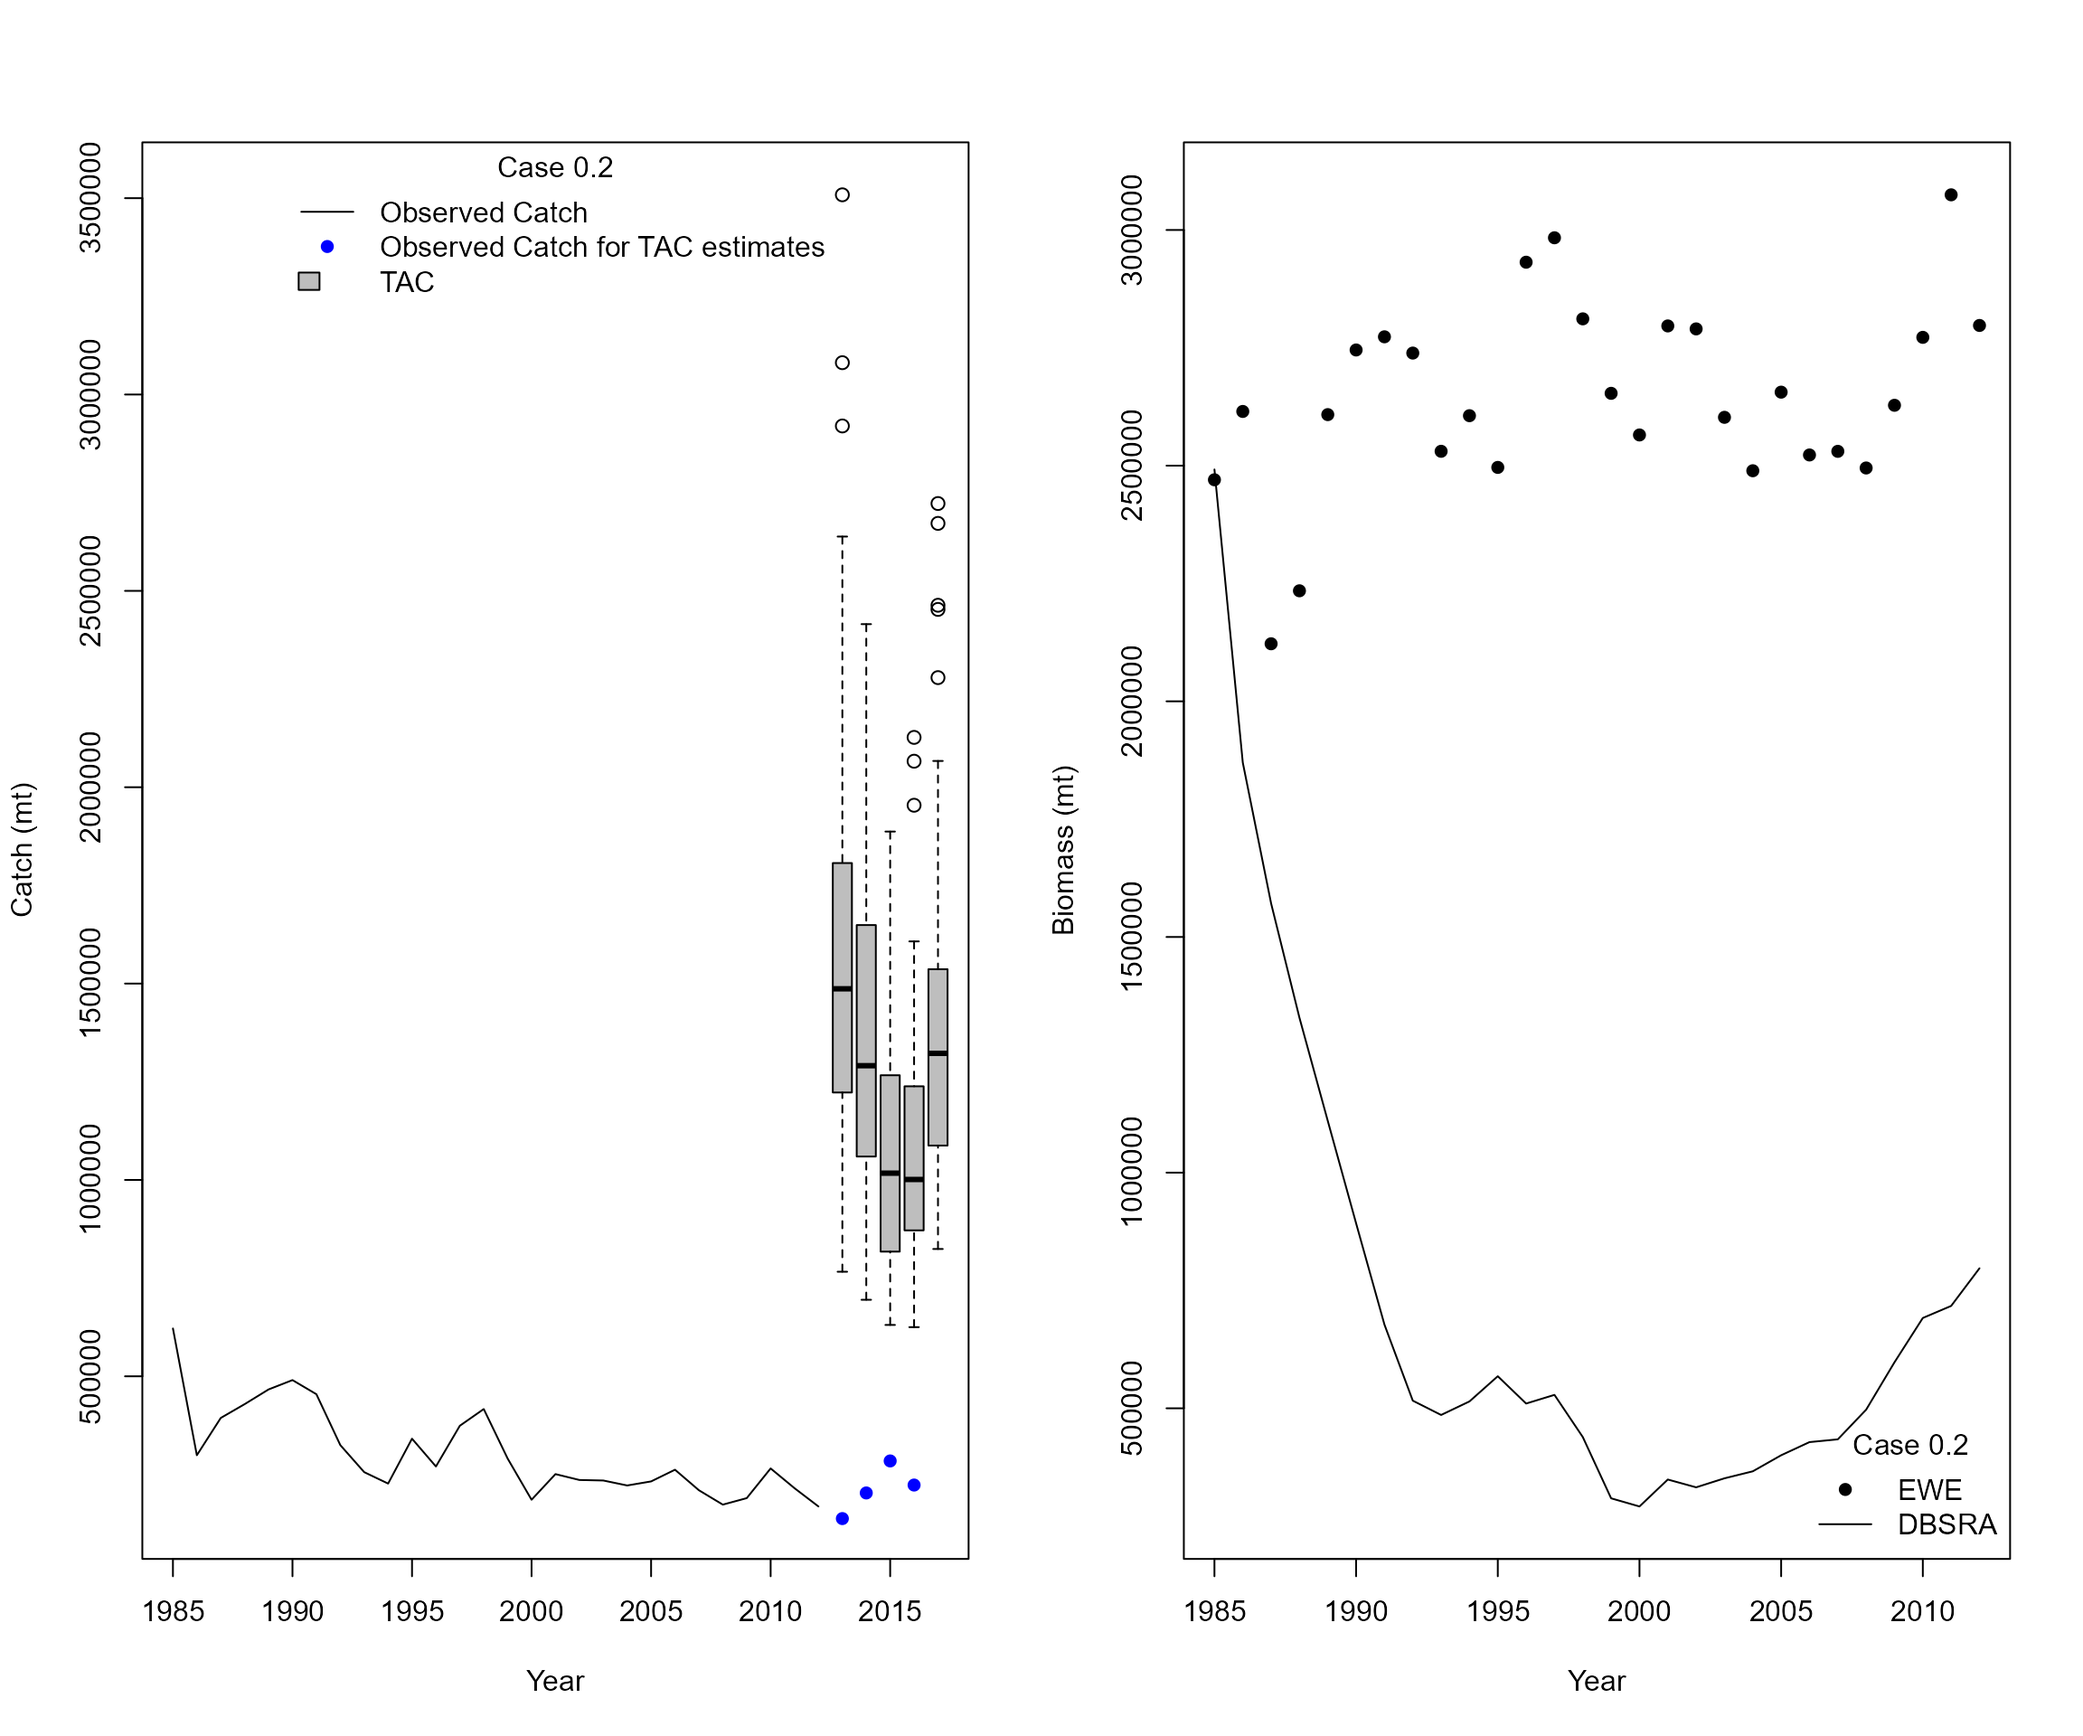
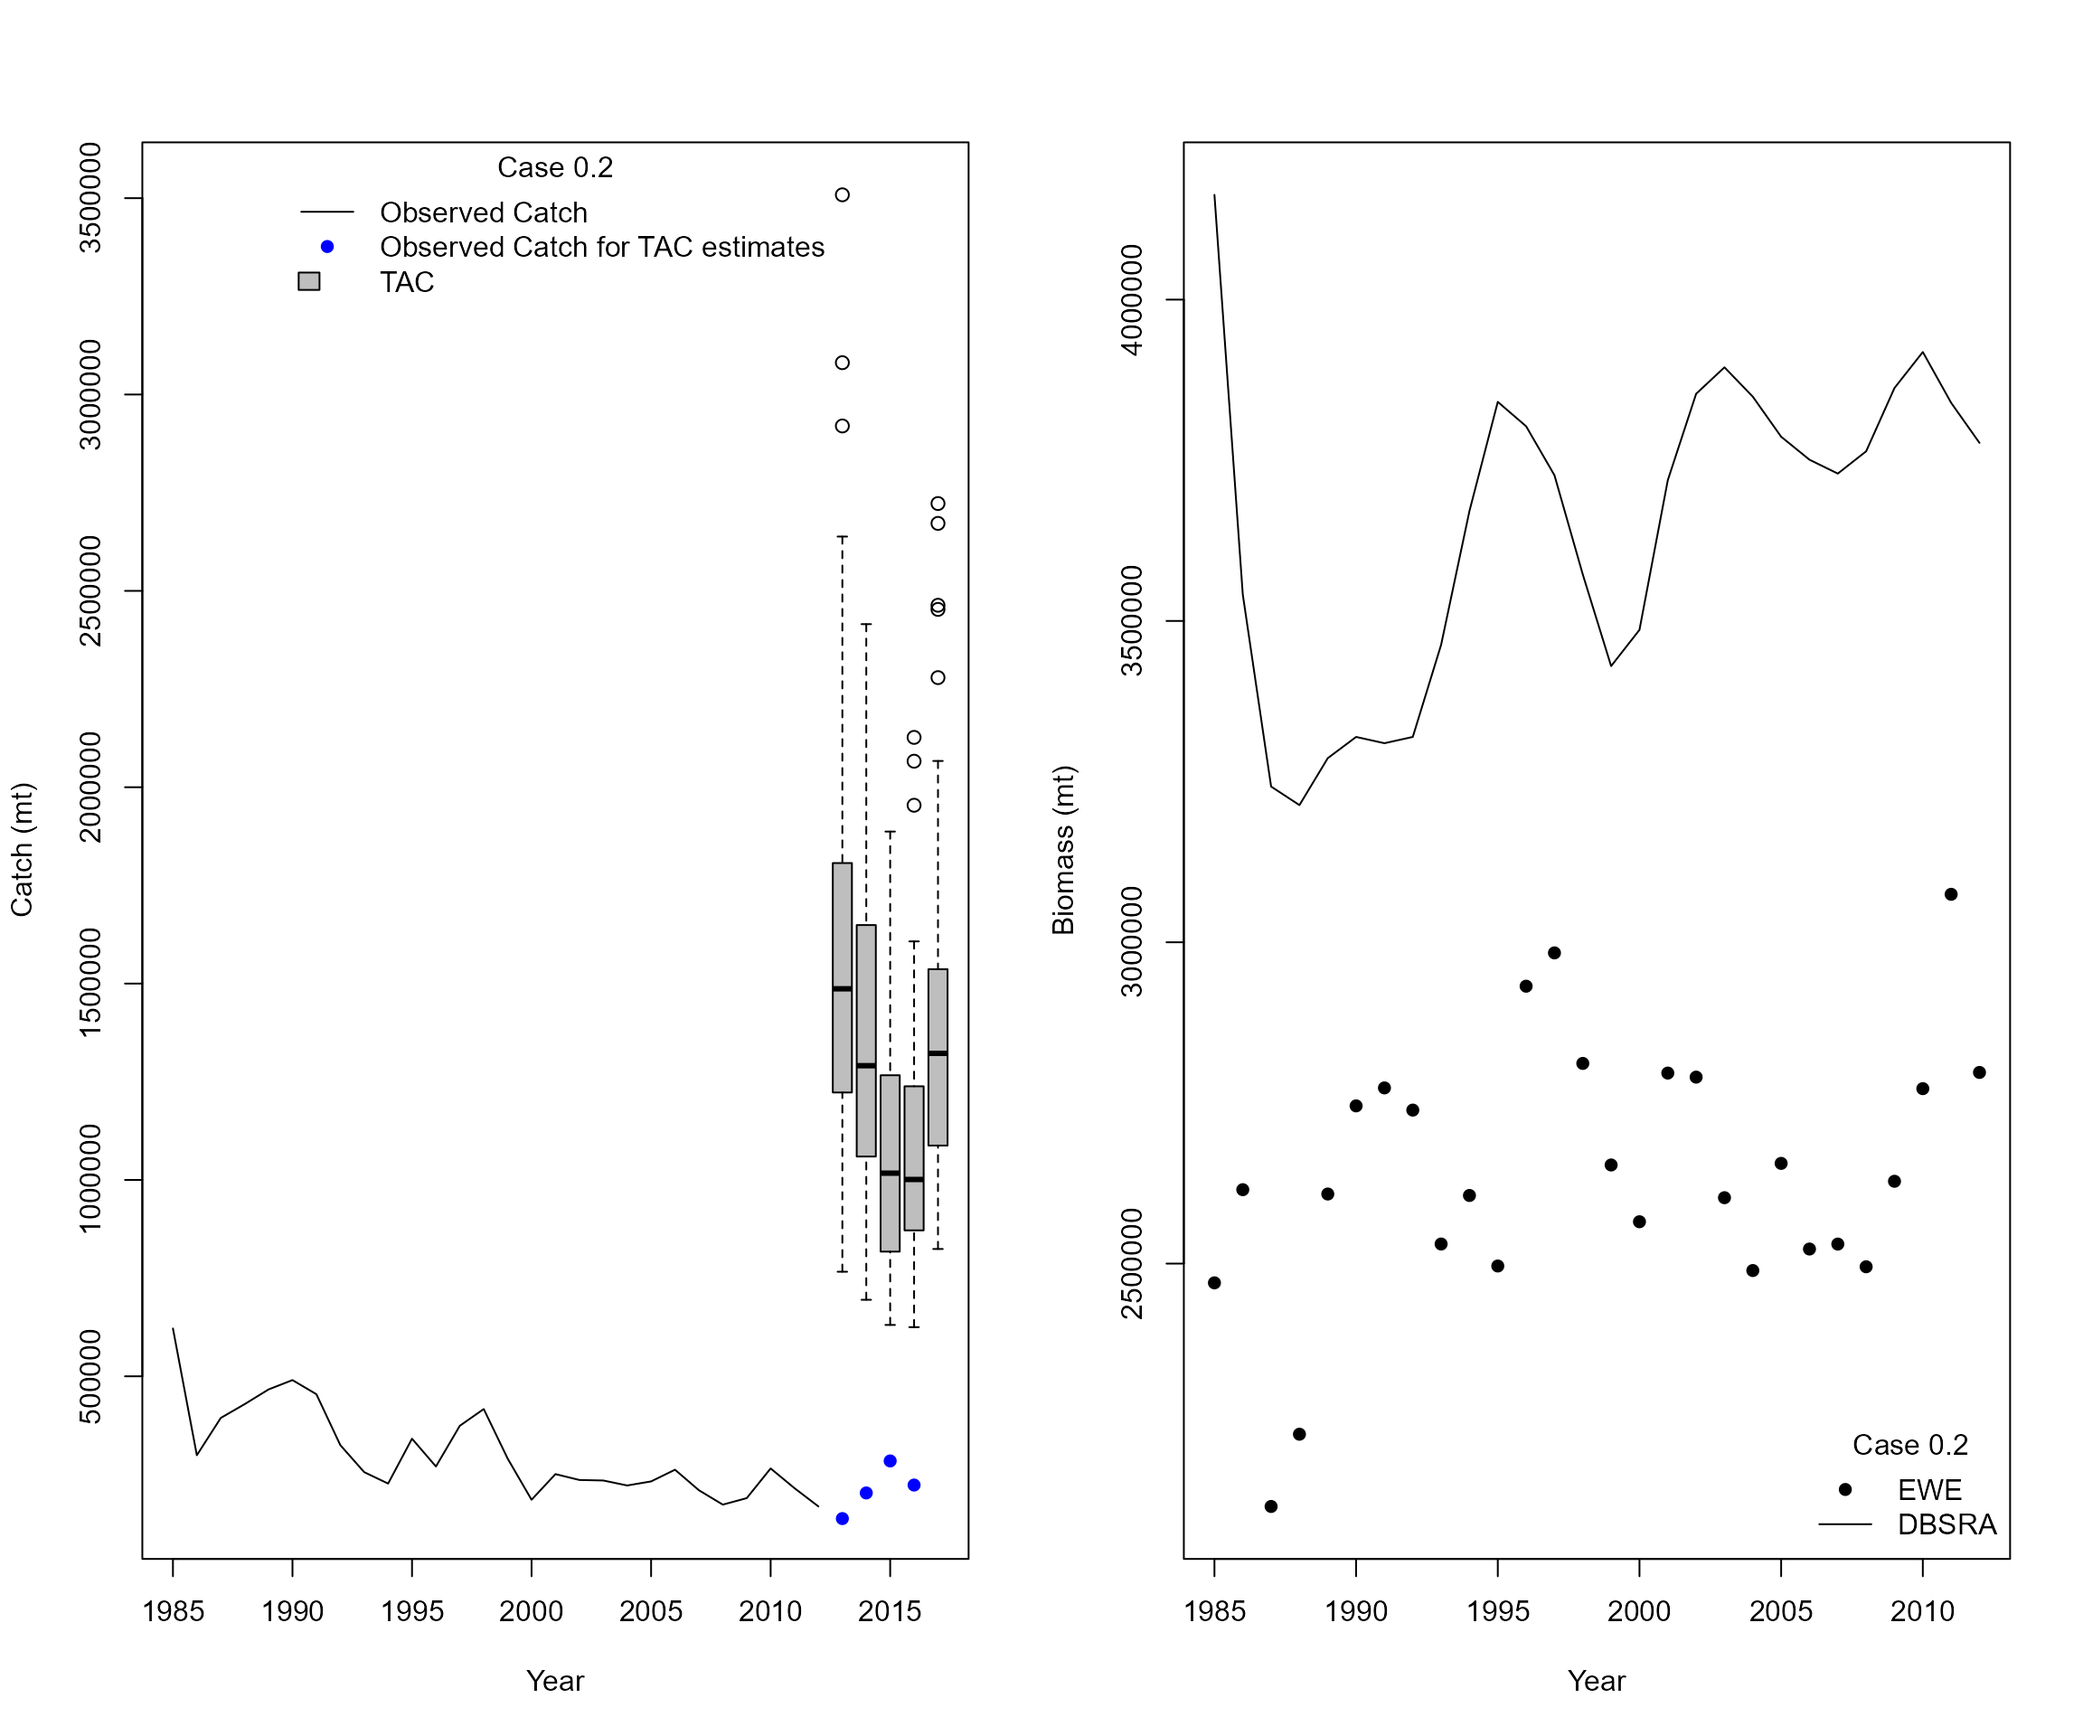
fix case 0.2 biomass figure

diff --git a/docs/articles/06_Data_poor_stock_assessment.html b/docs/articles/06_Data_poor_stock_assessment.html
@@ -133,16 +133,18 @@
 <h2 id="depletion-based-stock-reduction-analysisdb-sra-from-dlmtool">Depletion-Based Stock Reduction Analysis(DB-SRA) from DLMtool<a class="anchor" aria-label="anchor" href="#depletion-based-stock-reduction-analysisdb-sra-from-dlmtool"></a>
 </h2>
 <ul>
-<li><p>Website: <a href="https://github.com/Blue-Matter/DLMtool" class="external-link">https://github.com/Blue-Matter/DLMtool</a></p></li>
-<li>
-<p>Case 0: stock assessment base run</p>
+<li>Website: <a href="https://github.com/Blue-Matter/DLMtool" class="external-link">https://github.com/Blue-Matter/DLMtool</a>
+</li>
+</ul>
+</div>
+<div class="section level2">
+<h2 id="case-0-stock-assessment-base-run">Case 0: stock assessment base run<a class="anchor" aria-label="anchor" href="#case-0-stock-assessment-base-run"></a>
+</h2>
 <ul>
 <li>Case 0.1
 <ul>
 <li>Depletion relative to unfished: 0.27 (assume catch is proportional to biomass and use <span class="math inline">\(catch_{2012}/catch_{1985}\)</span>)</li>
 <li>BMSY relative to unfished: 0.3 (based on fecundity target value from Beaufort Stock Assessment report)</li>
-</ul>
-</li>
 </ul>
 </li>
 </ul>
@@ -157,15 +159,15 @@
 </li>
 </ul>
 <p><img src="06_Data_poor_stock_assessment_files/figure-html/unnamed-chunk-3-1.png" width="1152"><img src="06_Data_poor_stock_assessment_files/figure-html/unnamed-chunk-3-2.png" width="1152"></p>
+</div>
+<div class="section level2">
+<h2 id="cases-1-4-are-based-on-the-settings-from-case-0-1">Cases 1-4 are based on the settings from case 0.1<a class="anchor" aria-label="anchor" href="#cases-1-4-are-based-on-the-settings-from-case-0-1"></a>
+</h2>
+<pre><code>- Case 1: Link Atlantic Multidecadal Oscillation Index with menhaden biomass estimates and adjust projections: AMO is an indicator of climate conditions and would affect recruitment variability of menhaden-like species
+- Case 2: Link precipitation index with menhaden biomass estimates and adjust projections: precipitation alters availability of high-salinity habitat and may affect menhaden-like species through nutrient loading
+- Case 3: Link biomass of Striped bass from the EwE with menhaden biomass estimates and adjust projections because bass is a major predator
+- Case 4: Link dollars of menhaden with menhaden biomass estimates and adjust projections </code></pre>
 <ul>
-<li>Cases 1-4 are based on the settings from case 0.1
-<ul>
-<li>Case 1: Link Atlantic Multidecadal Oscillation Index with menhaden biomass estimates and adjust projections: AMO is an indicator of climate conditions and would affect recruitment variability of menhaden-like species</li>
-<li>Case 2: Link precipitation index with menhaden biomass estimates and adjust projections: precipitation alters availability of high-salinity habitat and may affect menhaden-like species through nutrient loading</li>
-<li>Case 3: Link biomass of Striped bass from the EwE with menhaden biomass estimates and adjust projections because bass is a major predator</li>
-<li>Case 4: Link dollars of menhaden with menhaden biomass estimates and adjust projections</li>
-</ul>
-</li>
 <li>Linear regression models from case 1 - 4
 <ul>
 <li>Using scaled or raw AMO and precipitation values do not make a difference. Here we used raw environmental values</li>
@@ -246,10 +248,16 @@
 <span class="co">## Multiple R-squared:  0.0315, Adjusted R-squared:  -0.00575 </span>
 <span class="co">## F-statistic: 0.846 on 1 and 26 DF,  p-value: 0.366</span></code></pre>
 <p><img src="06_Data_poor_stock_assessment_files/figure-html/unnamed-chunk-4-1.png" width="1152"></p>
-<ul>
-<li><p>Status of indicators from cases 1 - 4 <img src="06_Data_poor_stock_assessment_files/figure-html/unnamed-chunk-5-1.png" width="1152"></p></li>
-<li><p>Adjusted TAC in 2013 from cases 1 - 4 <img src="06_Data_poor_stock_assessment_files/figure-html/unnamed-chunk-6-1.png" width="1152"><img src="06_Data_poor_stock_assessment_files/figure-html/unnamed-chunk-6-2.png" width="1152"></p></li>
-</ul>
+</div>
+<div class="section level2">
+<h2 id="status-of-indicators-from-cases-1---4">Status of indicators from cases 1 - 4<a class="anchor" aria-label="anchor" href="#status-of-indicators-from-cases-1---4"></a>
+</h2>
+<p><img src="06_Data_poor_stock_assessment_files/figure-html/unnamed-chunk-5-1.png" width="1152"></p>
+</div>
+<div class="section level2">
+<h2 id="adjusted-tac-in-2013-from-cases-1---4">Adjusted TAC in 2013 from cases 1 - 4<a class="anchor" aria-label="anchor" href="#adjusted-tac-in-2013-from-cases-1---4"></a>
+</h2>
+<p><img src="06_Data_poor_stock_assessment_files/figure-html/unnamed-chunk-6-1.png" width="1152"><img src="06_Data_poor_stock_assessment_files/figure-html/unnamed-chunk-6-2.png" width="1152"></p>
 </div>
   </div>
 
